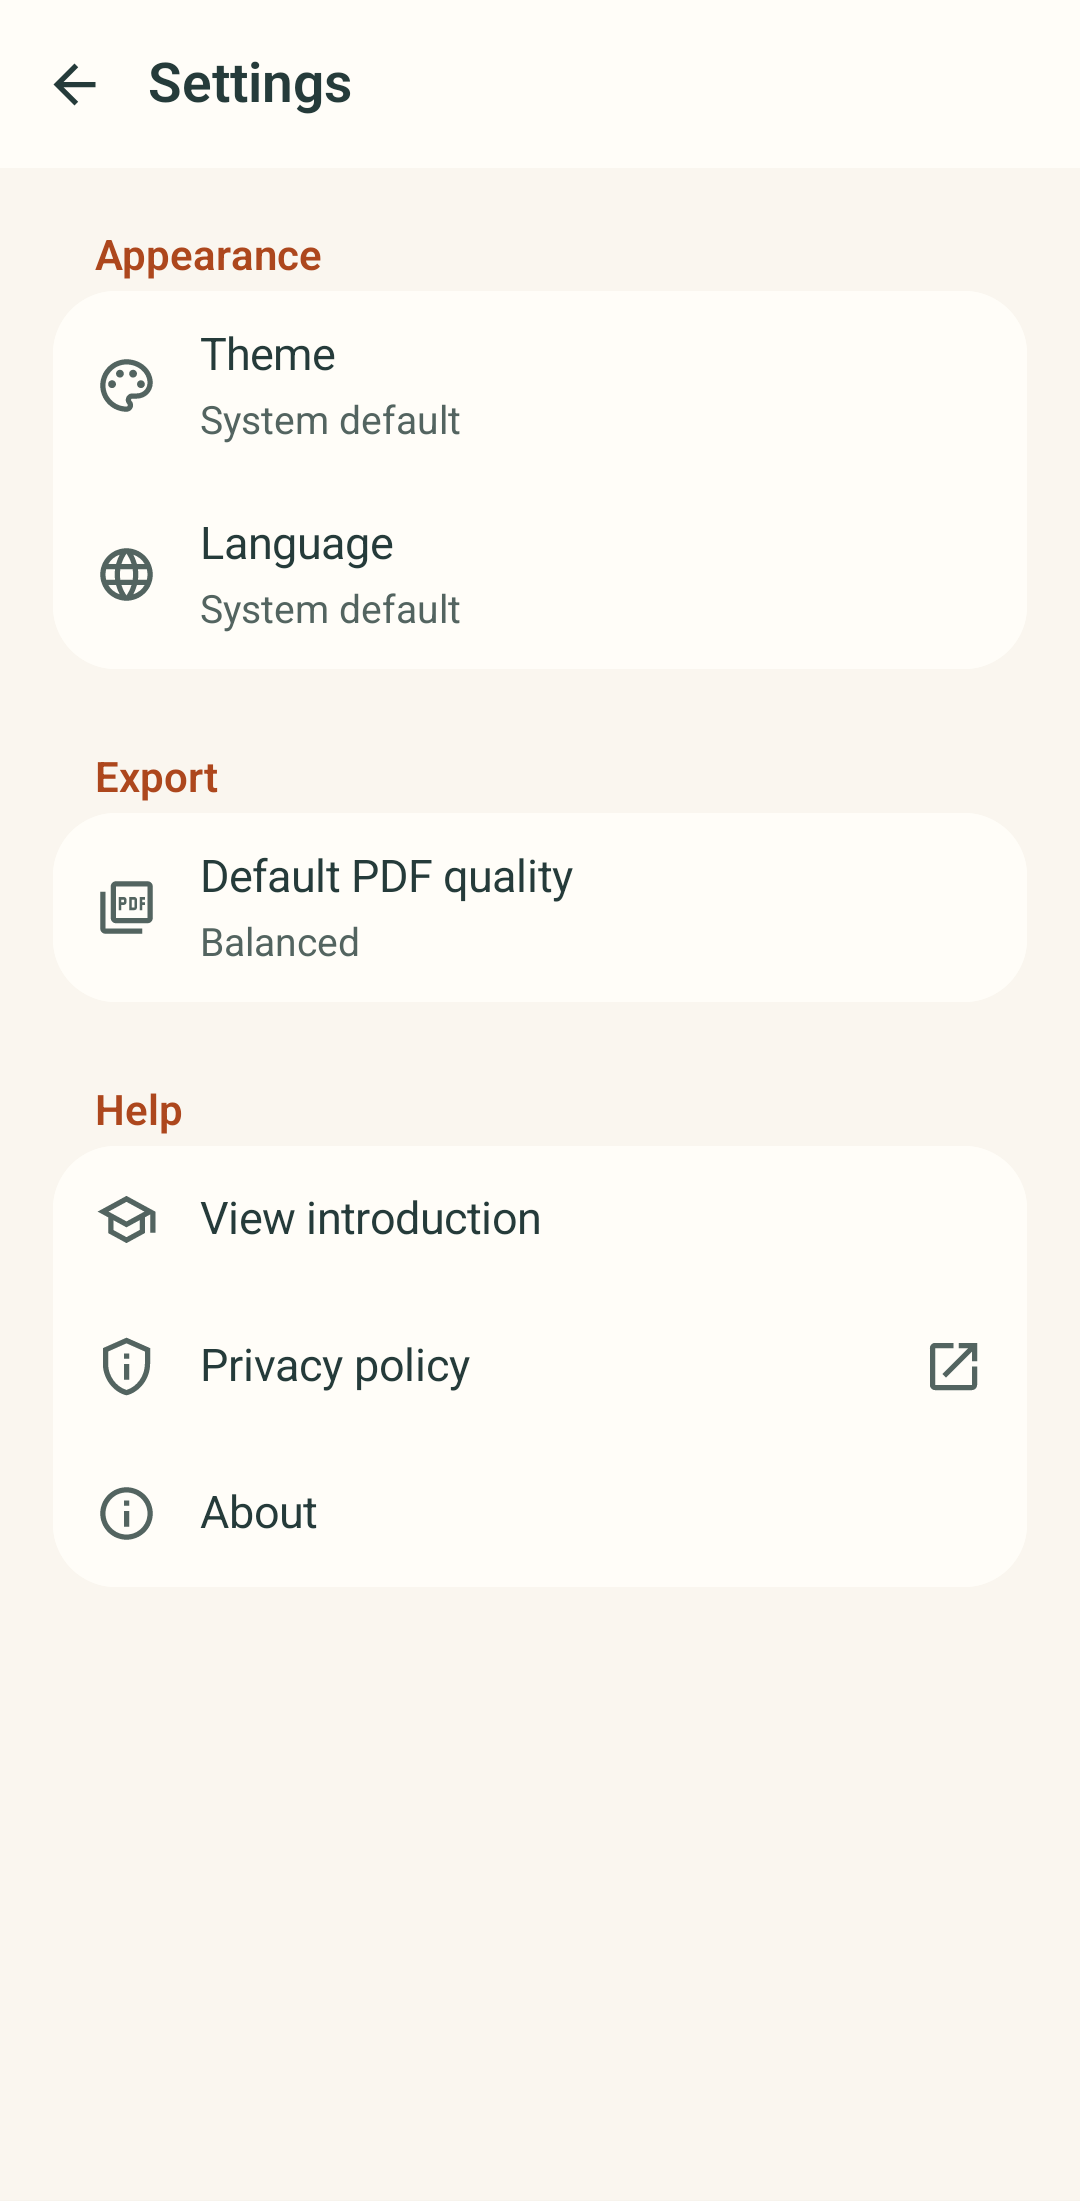
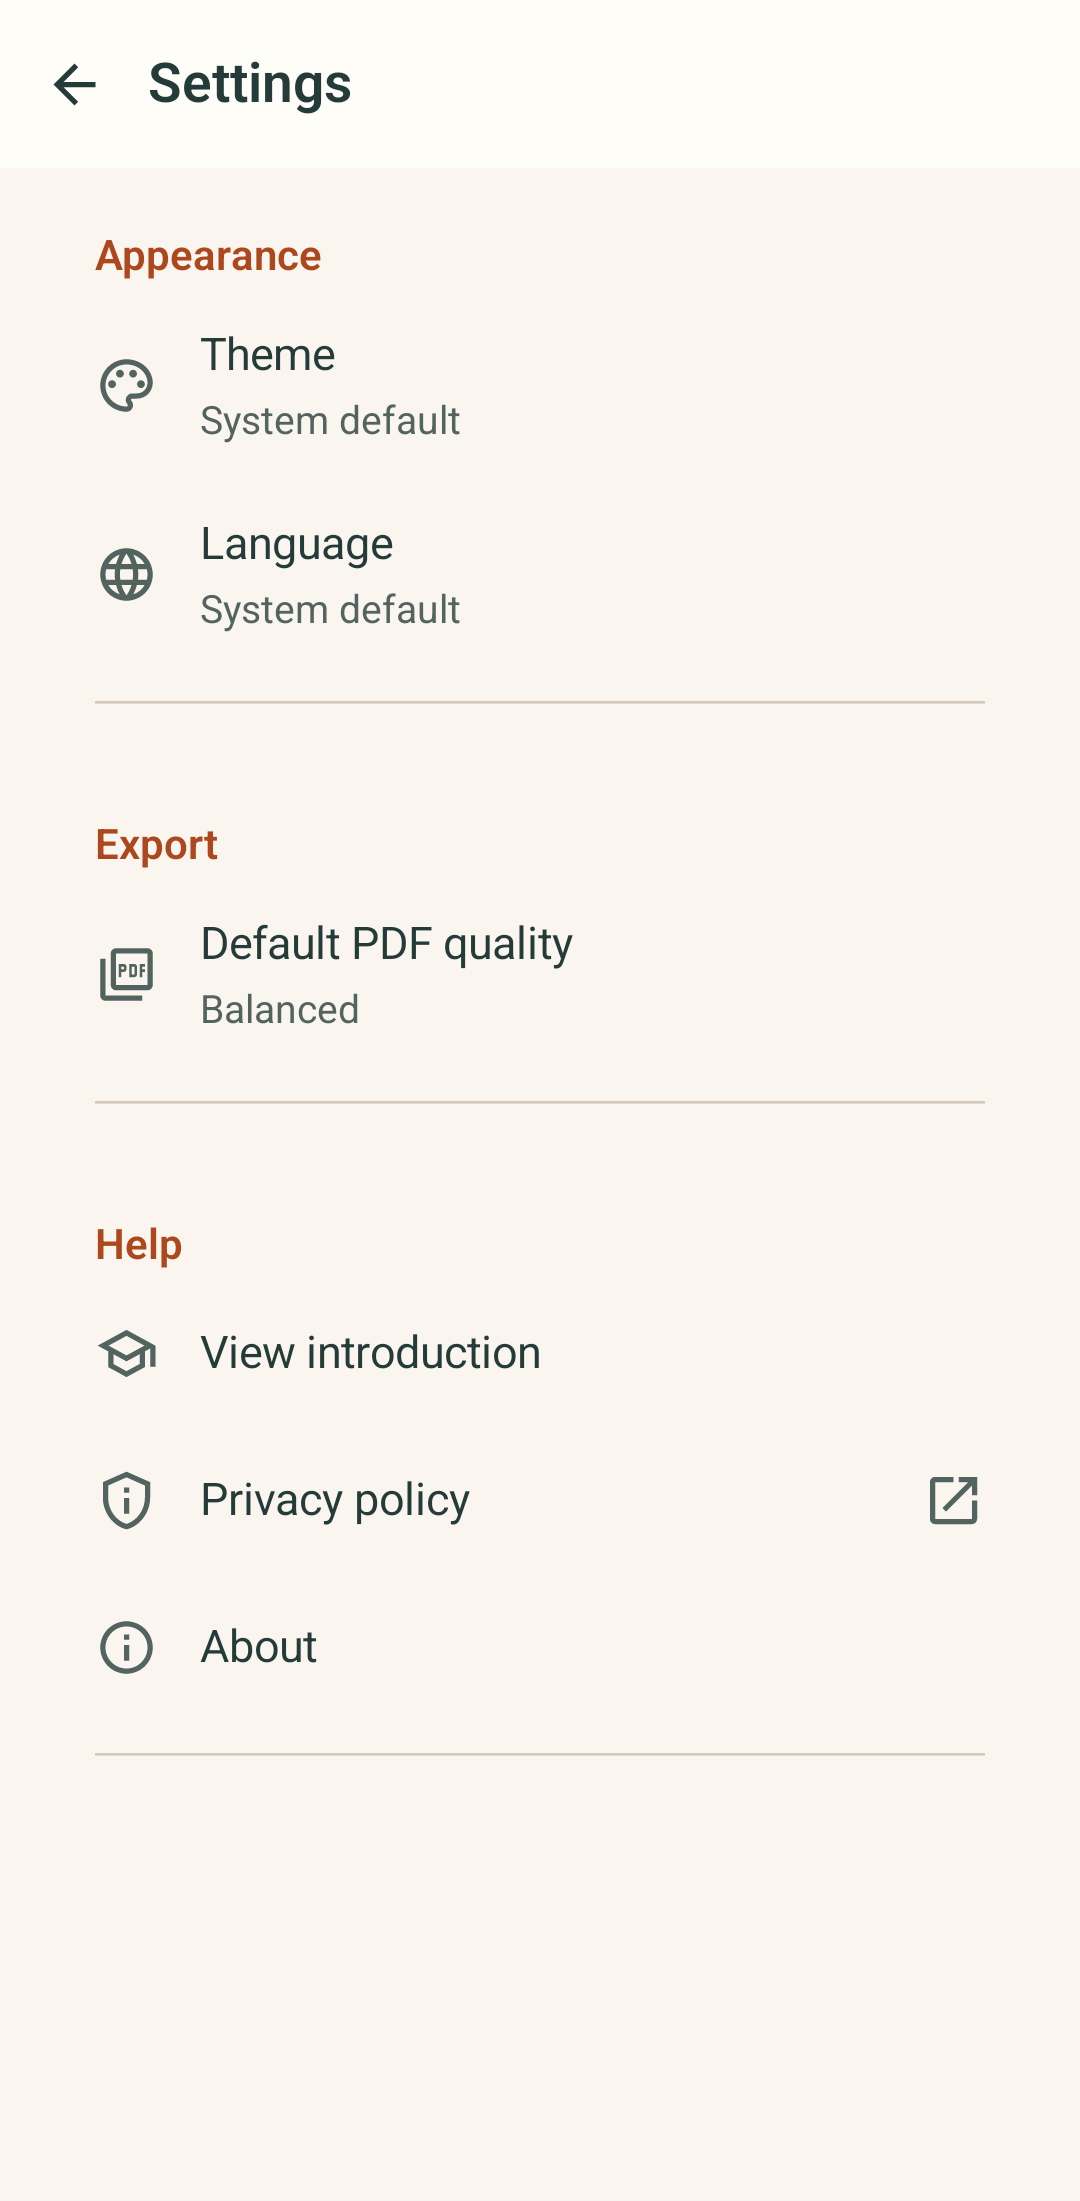
feat(library): enlarge single-page detail and simplify settings

diff --git a/feature-history/src/main/java/com/soturine/replicascan/feature/history/HistoryScreen.kt b/feature-history/src/main/java/com/soturine/replicascan/feature/history/HistoryScreen.kt
@@ -47,6 +47,7 @@ import androidx.compose.runtime.setValue
 import androidx.compose.ui.Alignment
 import androidx.compose.ui.Modifier
 import androidx.compose.ui.draw.clip
+import androidx.compose.ui.draw.shadow
 import androidx.compose.ui.layout.ContentScale
 import androidx.compose.ui.platform.LocalConfiguration
 import androidx.compose.ui.res.pluralStringResource
@@ -245,7 +246,7 @@ fun ScanDetailScreen(
         }
         val pages = remember(scan.pages) { scan.pages.sortedBy { it.index } }
         LazyVerticalGrid(
-            columns = GridCells.Adaptive(minSize = 128.dp),
+            columns = if (pages.size == 1) GridCells.Fixed(1) else GridCells.Adaptive(minSize = 128.dp),
             modifier = Modifier.fillMaxSize().padding(innerPadding),
             contentPadding = PaddingValues(16.dp),
             horizontalArrangement = Arrangement.spacedBy(12.dp),
@@ -275,12 +276,14 @@ fun ScanDetailScreen(
                         modifier = Modifier
                             .fillMaxWidth()
                             .aspectRatio(0.75f)
+                            .shadow(if (pages.size == 1) 10.dp else 0.dp, MaterialTheme.shapes.small)
                             .clip(MaterialTheme.shapes.small)
                             .border(1.dp, MaterialTheme.colorScheme.outlineVariant, MaterialTheme.shapes.small),
-                        contentScale = ContentScale.Crop,
-                        maxDimension = 480,
+                        contentScale = ContentScale.Fit,
+                        maxDimension = if (pages.size == 1) 1200 else 480,
+                        backgroundColor = MaterialTheme.colorScheme.surface,
                     )
-                    Text("${page.index + 1}", style = MaterialTheme.typography.labelMedium)
+                    if (pages.size > 1) Text("${page.index + 1}", style = MaterialTheme.typography.labelMedium)
                 }
             }
         }

diff --git a/feature-settings/src/main/java/com/soturine/replicascan/feature/settings/SettingsScreen.kt b/feature-settings/src/main/java/com/soturine/replicascan/feature/settings/SettingsScreen.kt
@@ -27,6 +27,7 @@ import androidx.compose.material.icons.outlined.PrivacyTip
 import androidx.compose.material.icons.outlined.School
 import androidx.compose.material3.AlertDialog
 import androidx.compose.material3.ExperimentalMaterial3Api
+import androidx.compose.material3.HorizontalDivider
 import androidx.compose.material3.Icon
 import androidx.compose.material3.IconButton
 import androidx.compose.material3.ListItem
@@ -156,9 +157,11 @@ private fun Group(title: String, content: @Composable () -> Unit) {
             color = MaterialTheme.colorScheme.primary,
             modifier = Modifier.padding(start = 16.dp, top = 16.dp, bottom = 4.dp).semantics { heading() },
         )
-        Surface(shape = MaterialTheme.shapes.large, color = MaterialTheme.colorScheme.surface) {
-            Column { content() }
-        }
+        Column { content() }
+        HorizontalDivider(
+            modifier = Modifier.padding(horizontal = 16.dp, vertical = 12.dp),
+            color = MaterialTheme.colorScheme.outlineVariant,
+        )
     }
 }
 
@@ -180,7 +183,7 @@ private fun PreferenceRow(
         } else {
             null
         },
-        colors = ListItemDefaults.colors(containerColor = MaterialTheme.colorScheme.surface),
+        colors = ListItemDefaults.colors(containerColor = MaterialTheme.colorScheme.background),
     )
 }
 

diff --git a/README.md b/README.md
@@ -27,7 +27,7 @@ Não há conta, backend, sincronização ou upload obrigatório de documentos. C
 
 ## Redesign e evidência
 
-A base da v0.4.1 traz papel marfim, tinta petróleo e terracota, revisão de telas, crop com cantos independentes e exportação com nome de arquivo, progresso e recuperação persistente. O visual do ciclo anterior foi rejeitado pelo proprietário. Um novo master e sete poses baseados na raposa da v0.4.0 receberam aceite como arte estática. A pose de atenção teve patas extras corrigidas e um rig candidato com camadas independentes foi capturado no Android. A Home integra a raposa à cena de papel e prioriza Escanear inclusive com fonte 200%; a exportação conecta prévia real e raposa em preparo, progresso, sucesso e erro. Revisão, recorte e filtros compartilham a luz e a profundidade do papel sem mudar os controles de edição; OCR reúne o texto selecionável em uma folha. Introdução, animação, ícone e conjunto das telas continuam sem aceite final.
+A base da v0.4.1 traz papel marfim, tinta petróleo e terracota, revisão de telas, crop com cantos independentes e exportação com nome de arquivo, progresso e recuperação persistente. O visual do ciclo anterior foi rejeitado pelo proprietário. Um novo master e sete poses baseados na raposa da v0.4.0 receberam aceite como arte estática. A pose de atenção teve patas extras corrigidas e um rig candidato com camadas independentes foi capturado no Android. A Home integra a raposa à cena de papel e prioriza Escanear inclusive com fonte 200%; a exportação conecta prévia real e raposa em preparo, progresso, sucesso e erro. Revisão, recorte e filtros compartilham a luz e a profundidade do papel sem mudar os controles de edição; OCR reúne o texto selecionável em uma folha. Detalhe prioriza a página única e configurações usam grupos leves. Introdução, animação, ícone e conjunto das telas continuam sem aceite final.
 
 Veja a [auditoria de recuperação visual](docs/design/visual-recovery/AUDIT.md), a [prancha das poses](docs/design/visual-recovery/candidates/review.html), o [clipe e as capturas Android atuais](docs/design/visual-recovery/evidence/README.md), os [novos ícones candidatos](docs/design/visual-recovery/icon-candidates/index.html), a [revisão por tela](docs/design/visual-recovery/SCREEN_REVIEW.md) e a [matriz de validação](docs/design/visual-recovery/VALIDATION_MATRIX.md). O material novo usa estados injetados e documento sintético; não substitui QA físico, TalkBack humano, revisão linguística nativa ou aceite final.
 

diff --git a/docs/design/visual-recovery/SCREEN_REVIEW.md b/docs/design/visual-recovery/SCREEN_REVIEW.md
@@ -15,8 +15,8 @@ automaticamente todas as telas, o movimento ou a release.
 | OCR carregando, pronto e vazio | Parágrafos ficam em uma folha selecionável, com cópia e idioma preservados. Carregamento e vazio mantêm a raposa; estados de modelo e seleção precisam inspeção com OCR real e TalkBack. | Capturado com estado injetado; fluxo real pendente |
 | Exportação: PDF/JPG/PNG | Prévia, quantidade de páginas e formato atual agora formam uma superfície única; nome, qualidade e tamanho continuam editáveis e progressivos. Estado escuro com fonte 200% exige rolagem para opções inferiores. | Implementado; capturas API 34; aceite pendente |
 | Exportação: progresso, sucesso, erro | A mesma folha real e a raposa acompanham preparo, gravação, sucesso e recuperação, com pose articulada conforme o estado. Sucesso identifica o arquivo e erro preserva opções de nova tentativa. | Capturado com estado injetado; exportação real/aceite pendentes |
-| Histórico, busca, detalhe | Uma biblioteca com só um item deixa espaço livre; não adicionar conteúdo artificial. Busca e ações documentais devem ser exercitadas em aparelho. | Capturado; interação pendente |
-| Configurações, idioma, sobre | Grupos e alvos de toque estão claros, embora a linguagem visual ainda seja próxima do Material padrão. Validar todos os idiomas, RTL e fonte ampliada. | Capturado; revisão linguística/QA pendentes |
+| Histórico, busca, detalhe | Uma biblioteca com só um item deixa espaço livre. Detalhe amplia a página única e mantém a grade em lotes; exportar, editar, favorito, excluir e abrir OCR preservados. Busca e ações documentais devem ser exercitadas em aparelho. | Detalhe recapturado; interação pendente |
+| Configurações, idioma, sobre | Grupos em fundo contínuo e divisórias leves tiram o aspecto de cartões repetidos. Opções e alvos de toque preservados. Validar todos os idiomas, RTL e fonte ampliada. | Configurações recapturadas; revisão linguística/QA pendentes |
 | Ícone adaptativo | Três novas artes com duas patas e folha foram capturadas no Android em 24–108 dp, máscara do sistema e prévias de outras máscaras. A opção 1 lê melhor em tamanho mínimo; a opção 3 perde expressão. O temático é rascunho. | Candidatos em `icon-candidates/`; launcher de produção intacto; escolha e teste físico pendentes |
 | Site | Capturas de Home e opções de exportação atualizadas. | Implementado; gate local do site passou, publicação remota pendente |
 

diff --git a/CHANGELOG.md b/CHANGELOG.md
@@ -10,6 +10,7 @@ Este projeto segue Semantic Versioning e recomenda Conventional Commits no fluxo
 - Revisão e recorte passam a iluminar a página e dar profundidade ao papel; prévia, quatro alças, gesto e recorte de página inteira mantêm a mesma geometria.
 - Filtros compartilham o mesmo palco de papel da revisão; OCR apresenta todos os parágrafos em uma folha selecionável, preservando cópia e escolha de idioma.
 - Três novos candidatos de ícone foram renderizados no Android em 24–108 dp, máscaras e rascunho temático para revisão; o ícone instalado permanece provisório até a escolha.
+- Detalhe amplia o documento quando há uma única página; configurações usam grupos com divisórias leves em vez de superfícies arredondadas, mantendo opções e ações.
 - Exportação recomposta em quatro cenas ligadas à prévia real do documento: preparo com opções progressivas, trabalho com progresso, sucesso com arquivo e ações, erro com recuperação. A folha mantém iluminação no tema escuro e forma pilha quando há várias páginas; callbacks e estados de gravação existentes foram preservados.
 - Atlas deformado substituído por poses completas em Compose, com movimento discreto, respeito ao lifecycle/redução de movimento e clipe de frames Android. Exportação em andamento voltou a mostrar prévia e identificação da página.
 - Home com mascote mais legível e texto em largura completa; em fonte 200% a arte cede espaço ao conteúdo. Opções de exportação reúnem prévia, páginas e formato atual na mesma superfície.

diff --git a/docs/design/visual-recovery/evidence/README.md b/docs/design/visual-recovery/evidence/README.md
@@ -18,6 +18,8 @@ fatia anterior do mesmo runtime com as poses aprovadas.
 renderização desses estados; o gesto de recorte ainda requer QA físico.
 `filters.png` e `ocr-ready.png` foram recapturados após a folha compartilhada
 dos filtros e o agrupamento selecionável dos parágrafos do OCR.
+`detail.png` e `settings.png` mostram a página única ampliada e grupos de
+preferências sem cartões repetidos, também recapturados em 2026-10-13.
 
 O [clipe v2](mascot-motion-v2.mp4) reúne 64 frames renderizados no Android com o
 clock de teste em passos de 125 ms e codificados em MP4 a 8 fps. Sequência:
